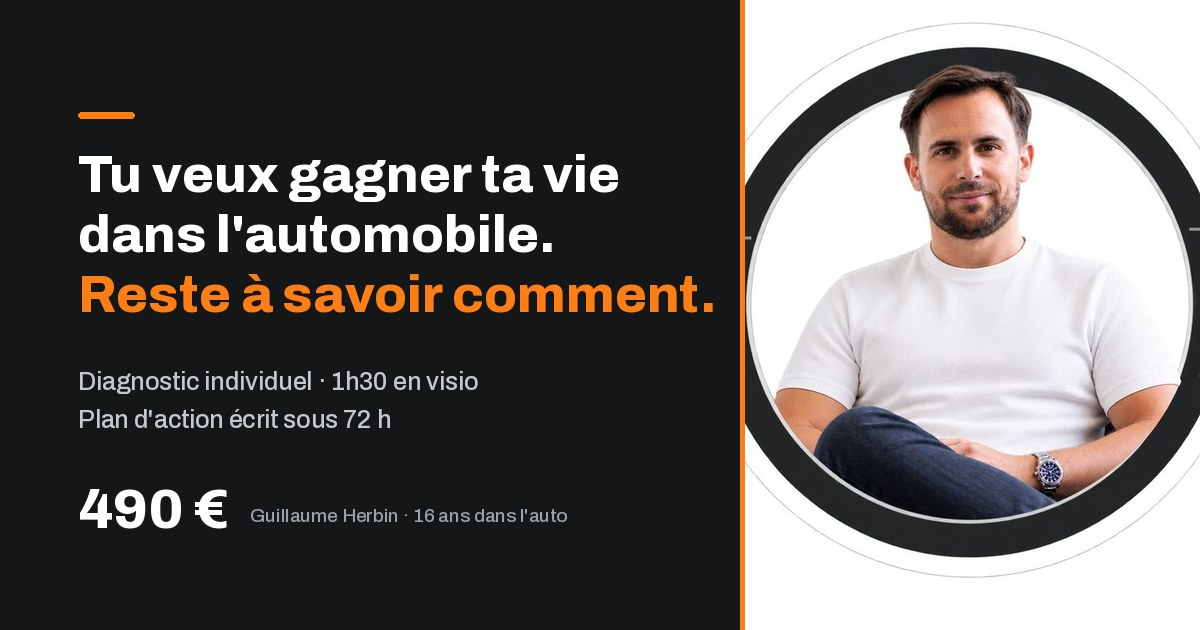
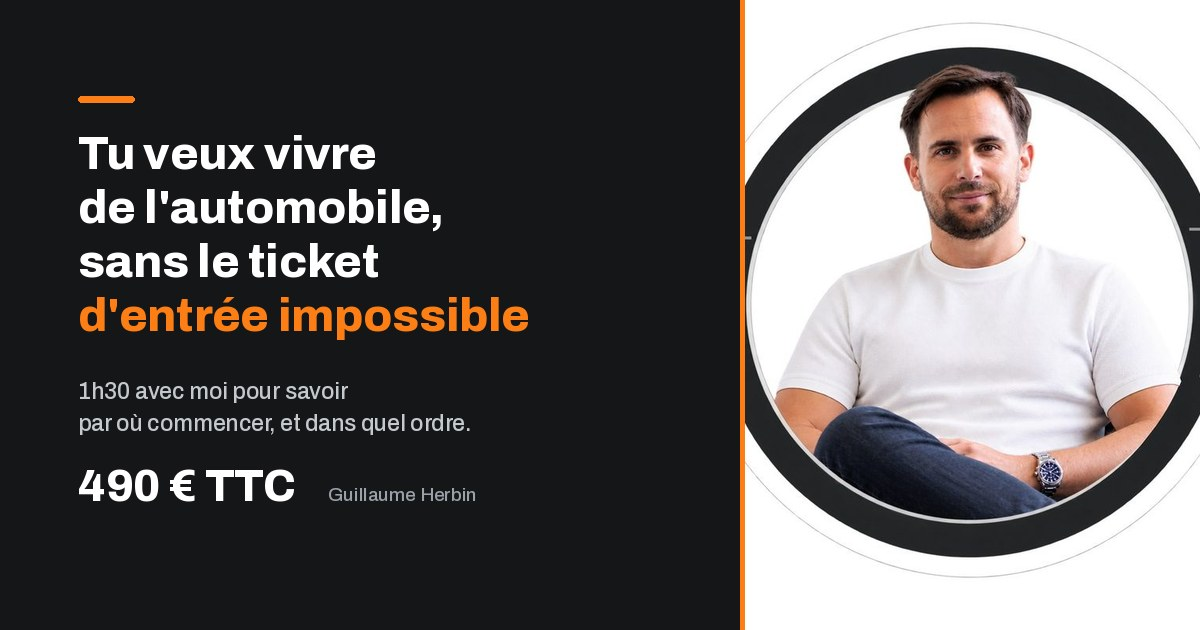
Accroche, aération, années des témoignages et disposition des cartes
Accroche
- nouveau titre : « Tu veux vivre de l'automobile, sans le ticket d'entrée
  impossible », et nouveau sous-titre
- prix ramené à « 490 € TTC », la mention du taux de TVA est retirée de la
  page. Elle reste dans les CGV, où le détail HT et TVA est donné
- la ligne « 16 ans dans l'automobile, un réseau construit depuis 2010 »
  disparaît
- le sous-titre passe de 34 à 46 caractères par ligne : à 34 il tombait sur
  trois lignes très courtes sous un titre large

Aération
Le chapeau et la conclusion de la section « le problème » passent à une
phrase par ligne, avec un interligne porté de 1.6 à 1.75.

Témoignages
Années renseignées sur la page tunnel et sur la page /temoignages :
Aurélien 2020, Pierre 2023, Thomas 2025. Lohan restait déjà daté de 2026.
Plus aucune mention « année à préciser » nulle part.

Disposition des cinq cartes
Les cartes 4 et 5 occupaient les colonnes 3-4 et 5-6 d'une grille de six :
elles se retrouvaient collées à droite, et pas plus larges que celles du
haut. Elles prennent désormais trois colonnes chacune et couvrent toute la
largeur, comme le demandait la consigne d'origine.

Pied de page
La ligne de copyright est retirée des pages du tunnel. Le pied de page du
site vitrine n'est pas touché. Le droit d'auteur s'applique sans mention,
et les mentions légales restent liées.

Image de partage
Régénérée avec la nouvelle accroche. Elle portait encore l'ancien titre, or
c'est elle que voient les destinataires en story et en message privé, là où
[…]

Changed region(s): [[0.0617, 0.1508, 0.6167, 0.5429], [0.0617, 0.573, 0.4008, 0.6937], [0.0617, 0.7238, 0.4625, 0.8444]]

diff --git a/site/accompagnement/index.html b/site/accompagnement/index.html
@@ -46,14 +46,12 @@
 <!-- ============ Bloc 1 : accroche ============ -->
 <section class="bloc accroche" data-accroche>
   <div class="lire">
-    <h1>Tu veux gagner ta vie dans l'automobile. Reste à savoir comment.</h1>
-    <p class="accroche-sous">1h30 avec moi, une trame précise, et un plan d'action écrit que tu gardes.</p>
-    <p class="accroche-prix">490&nbsp;€ <small>TTC, dont TVA 20&nbsp;%</small></p>
+    <h1>Tu veux vivre de l'automobile, sans le ticket d'entrée impossible</h1>
+    <p class="accroche-sous">1h30 avec moi pour savoir exactement par où commencer,
+       avec quels moyens, et dans quel ordre.</p>
+    <p class="accroche-prix">490&nbsp;€ <small>TTC</small></p>
 
     <a class="cta" href="candidature/" data-cta="accroche">Réserver mon diagnostic<span class="cta-prix">490&nbsp;€</span></a>
-
-    <p class="accroche-preuve">16 ans dans l'automobile. Un réseau construit depuis 2010,
-       avec 3&nbsp;000&nbsp;€ de départ.</p>
 
     <div class="media"><picture><source srcset="../assets/img/portrait-hero.webp" type="image/webp"><img src="../assets/img/portrait-hero.jpg" width="800" height="800" alt="Guillaume Herbin" fetchpriority="high"></picture></div>
 
@@ -65,8 +63,10 @@
 <section class="bloc">
   <div class="large">
     <h2 class="titre-centre" data-reveal>Tu as la passion, mais pas le mode d'emploi</h2>
-    <p class="chapo-centre" data-reveal>Tu connais les voitures. Tu sais repérer une bonne
-       affaire. Tu voudrais en faire ton métier. Mais dès que tu te renseignes, c'est le mur.</p>
+    <p class="chapo-centre" data-reveal>Tu connais les voitures.<br>
+       Tu sais repérer une bonne affaire.<br>
+       Tu voudrais en faire ton métier.<br>
+       Mais dès que tu te renseignes, c'est le mur.</p>
 
     <div class="cartes cartes-3">
       <article class="carte-i" data-reveal>
@@ -87,8 +87,8 @@
     </div>
 
     <div class="conclusion" data-reveal>
-      <p>Personne ne répond à ces questions-là. On te vend des méthodes, des chiffres d'achat
-         et de revente, et des promesses.</p>
+      <p>Personne ne répond à ces questions-là.<br>
+         On te vend des méthodes, des chiffres d'achat et de revente, et des promesses.</p>
       <p class="pointe">Moi je réponds à ta situation.</p>
     </div>
   </div>
@@ -120,11 +120,11 @@
     <div class="temoins">
       <figure class="temoin" data-reveal>
         <blockquote>&laquo;&nbsp;Il m'a aidé à poser les bonnes bases, à éviter certaines erreurs et surtout à construire une activité qui me ressemble. Aujourd'hui, plusieurs années après, je vends une dizaine de voitures par mois, je vis pleinement de mon activité et je suis toujours seul.&nbsp;&raquo;</blockquote>
-        <figcaption><b>Aurélien</b>, 33 ans &middot; marchand automobile indépendant &middot; <span class="a-fournir" style="padding:1px 7px;font-size:.88em;white-space:nowrap">année à préciser</span></figcaption>
+        <figcaption><b>Aurélien</b>, 33 ans &middot; marchand automobile indépendant &middot; accompagné en 2020</figcaption>
       </figure>
       <figure class="temoin" data-reveal>
         <blockquote>&laquo;&nbsp;Il ne m'a jamais vendu le rêve de l'entrepreneuriat. Au contraire. On a parlé risques, trésorerie, erreurs possibles, organisation… et ça m'a justement permis de prendre ma décision en sachant où je mettais les pieds.&nbsp;&raquo;</blockquote>
-        <figcaption><b>Pierre</b>, 39 ans &middot; dirigeant de garage &middot; <span class="a-fournir" style="padding:1px 7px;font-size:.88em;white-space:nowrap">année à préciser</span></figcaption>
+        <figcaption><b>Pierre</b>, 39 ans &middot; dirigeant de garage &middot; accompagné en 2023</figcaption>
       </figure>
       <figure class="temoin" data-reveal>
         <blockquote>&laquo;&nbsp;Je suis parti de zéro, tout seul et sans stock. Je pense que je me serais lancé même sans lui, mais une chose est sûre : je ne serais pas allé aussi vite et j'aurais fait un paquet d'erreurs en chemin.&nbsp;&raquo;</blockquote>
@@ -132,7 +132,7 @@
       </figure>
       <figure class="temoin" data-reveal>
         <blockquote>&laquo;&nbsp;Il ne m'a pas appris mon métier. Il m'a appris à regarder mon activité autrement. Aujourd'hui, le plus gros changement n'est même pas que je vende davantage. C'est que je sais ce que je gagne.&nbsp;&raquo;</blockquote>
-        <figcaption><b>Thomas</b>, 31 ans &middot; marchand automobile en activité &middot; <span class="a-fournir" style="padding:1px 7px;font-size:.88em;white-space:nowrap">année à préciser</span></figcaption>
+        <figcaption><b>Thomas</b>, 31 ans &middot; marchand automobile en activité &middot; accompagné en 2025</figcaption>
       </figure>
     </div>
     <p class="temoins-note" data-reveal>
@@ -353,7 +353,6 @@
       <a href="../confidentialite/">Confidentialité</a>
       <a href="https://www.instagram.com/guillaumeherbin_/" target="_blank" rel="noopener">Instagram</a>
     </p>
-    <p>&copy; <span data-annee>2026</span> RB1 Participations, Guillaume Herbin</p>
   </div>
 </footer>
 <aside class="cta-collant" data-collant data-visible="false" aria-label="Réserver le diagnostic">

diff --git a/site/assets/css/tunnel.css b/site/assets/css/tunnel.css
@@ -176,7 +176,7 @@ body[data-barre-basse="actif"]{padding-bottom:78px}
 /* ---------- Accroche ---------- */
 .accroche{padding-block:clamp(30px,6vw,52px) clamp(34px,6vw,56px)}
 .accroche h1{margin-bottom:18px}
-.accroche-sous{font-size:1.08rem;color:var(--ink-2);max-width:34ch}
+.accroche-sous{font-size:1.08rem;color:var(--ink-2);max-width:46ch;line-height:1.65}
 .accroche-prix{
   display:inline-flex;align-items:baseline;gap:8px;margin-top:18px;
   font-size:1.9rem;font-weight:800;letter-spacing:-.03em;
@@ -499,11 +499,14 @@ html:not(.js-anim) [data-reveal]{opacity:1;transform:none}
 .cartes{display:grid;gap:clamp(14px,2vw,20px);align-items:stretch}
 .cartes-3{grid-template-columns:repeat(3,1fr)}
 .cartes-2{grid-template-columns:repeat(2,1fr)}
-/* Cinq cartes : trois en haut, deux plus larges centrées en dessous. */
+/* Cinq cartes : trois en haut, deux plus larges en dessous.
+   Les deux cartes du bas prennent trois colonnes chacune et couvrent donc
+   toute la largeur. Leur donner deux colonnes les collait à droite au lieu
+   de les centrer, et elles n'étaient pas plus larges que celles du haut. */
 .cartes-5{grid-template-columns:repeat(6,1fr)}
 .cartes-5 > *{grid-column:span 2}
-.cartes-5 > *:nth-child(4){grid-column:3 / span 2}
-.cartes-5 > *:nth-child(5){grid-column:5 / span 2}
+.cartes-5 > *:nth-child(4){grid-column:1 / span 3}
+.cartes-5 > *:nth-child(5){grid-column:4 / span 3}
 @media (max-width:900px){
   .cartes-3,.cartes-5{grid-template-columns:1fr 1fr}
   .cartes-5 > *,.cartes-5 > *:nth-child(4),.cartes-5 > *:nth-child(5){grid-column:auto}
@@ -557,7 +560,7 @@ html:not(.js-anim) [data-reveal]{opacity:1;transform:none}
 /* Chapeau centré au-dessus d'une grille de cartes. */
 .chapo-centre{
   max-width:56ch;margin:0 auto clamp(26px,4vw,36px);
-  text-align:center;font-size:1.06rem;color:var(--ink-2);line-height:1.6;
+  text-align:center;font-size:1.06rem;color:var(--ink-2);line-height:1.75;
 }
 .titre-centre{text-align:center}
 
@@ -565,7 +568,7 @@ html:not(.js-anim) [data-reveal]{opacity:1;transform:none}
 .conclusion{
   max-width:60ch;margin:clamp(28px,4vw,40px) auto 0;text-align:center;
 }
-.conclusion p{color:var(--ink-2)}
+.conclusion p{color:var(--ink-2);line-height:1.75}
 .conclusion .pointe{
   margin-top:.8em;font-size:clamp(1.12rem,2.6vw,1.32rem);
   font-weight:800;letter-spacing:-.018em;color:var(--ink);

diff --git a/site/temoignages/index.html b/site/temoignages/index.html
@@ -57,7 +57,7 @@
   <div class="lire">
     <header class="temoignage-tete">
       <h2>Aurélien, 33 ans</h2>
-      <p class="temoignage-meta">marchand automobile indépendant &middot; <span class="a-fournir" style="padding:1px 7px;font-size:.9em;white-space:nowrap">année à préciser</span></p>
+      <p class="temoignage-meta">marchand automobile indépendant &middot; accompagné en 2020</p>
     </header>
     <div class="temoignage-corps">
       <p>J'ai rencontré Guillaume à un moment où j'avais surtout besoin d'y voir plus clair dans mon activité.</p>
@@ -73,7 +73,7 @@
   <div class="lire">
     <header class="temoignage-tete">
       <h2>Pierre, 39 ans</h2>
-      <p class="temoignage-meta">dirigeant de garage &middot; <span class="a-fournir" style="padding:1px 7px;font-size:.9em;white-space:nowrap">année à préciser</span></p>
+      <p class="temoignage-meta">dirigeant de garage &middot; accompagné en 2023</p>
     </header>
     <div class="temoignage-corps">
       <p>À la fin de mon alternance comme vendeur automobile, j'avais deux possibilités : continuer dans le réseau de concessions dans lequel j'étais, avec quelque chose de plutôt confortable devant moi, ou tenter de construire mon propre projet.</p>
@@ -115,7 +115,7 @@
   <div class="lire">
     <header class="temoignage-tete">
       <h2>Thomas, 31 ans</h2>
-      <p class="temoignage-meta">marchand automobile en activité &middot; <span class="a-fournir" style="padding:1px 7px;font-size:.9em;white-space:nowrap">année à préciser</span></p>
+      <p class="temoignage-meta">marchand automobile en activité &middot; accompagné en 2025</p>
     </header>
     <div class="temoignage-corps">
       <p>J'ai rencontré Guillaume un peu par hasard lors d'un événement automobile.</p>
@@ -149,7 +149,6 @@
       <a href="../confidentialite/">Confidentialité</a>
       <a href="https://www.instagram.com/guillaumeherbin_/" target="_blank" rel="noopener">Instagram</a>
     </p>
-    <p>&copy; <span data-annee>2026</span> RB1 Participations, Guillaume Herbin</p>
   </div>
 </footer>
 

diff --git a/site/accompagnement/candidature/index.html b/site/accompagnement/candidature/index.html
@@ -177,7 +177,6 @@
       <a href="../../confidentialite/">Confidentialité</a>
       <a href="https://www.instagram.com/guillaumeherbin_/" target="_blank" rel="noopener">Instagram</a>
     </p>
-    <p>&copy; <span data-annee>2026</span> RB1 Participations, Guillaume Herbin</p>
   </div>
 </footer>
 

diff --git a/site/accompagnement/merci/index.html b/site/accompagnement/merci/index.html
@@ -111,7 +111,6 @@
       <a href="../../confidentialite/">Confidentialité</a>
       <a href="https://www.instagram.com/guillaumeherbin_/" target="_blank" rel="noopener">Instagram</a>
     </p>
-    <p>&copy; <span data-annee>2026</span> RB1 Participations, Guillaume Herbin</p>
   </div>
 </footer>
 

diff --git a/site/accompagnement/confirmation/index.html b/site/accompagnement/confirmation/index.html
@@ -80,7 +80,6 @@
       <a href="../../confidentialite/">Confidentialité</a>
       <a href="https://www.instagram.com/guillaumeherbin_/" target="_blank" rel="noopener">Instagram</a>
     </p>
-    <p>&copy; <span data-annee>2026</span> RB1 Participations, Guillaume Herbin</p>
   </div>
 </footer>
 

diff --git a/site/accompagnement/reservation/index.html b/site/accompagnement/reservation/index.html
@@ -95,7 +95,6 @@
       <a href="../../confidentialite/">Confidentialité</a>
       <a href="https://www.instagram.com/guillaumeherbin_/" target="_blank" rel="noopener">Instagram</a>
     </p>
-    <p>&copy; <span data-annee>2026</span> RB1 Participations, Guillaume Herbin</p>
   </div>
 </footer>
 

diff --git a/site/calcul-marge/merci/index.html b/site/calcul-marge/merci/index.html
@@ -82,7 +82,6 @@
       <a href="../../confidentialite/">Confidentialité</a>
       <a href="https://www.instagram.com/guillaumeherbin_/" target="_blank" rel="noopener">Instagram</a>
     </p>
-    <p>&copy; <span data-annee>2026</span> RB1 Participations, Guillaume Herbin</p>
   </div>
 </footer>
 

diff --git a/site/calcul-marge/index.html b/site/calcul-marge/index.html
@@ -103,7 +103,6 @@
       <a href="../confidentialite/">Confidentialité</a>
       <a href="https://www.instagram.com/guillaumeherbin_/" target="_blank" rel="noopener">Instagram</a>
     </p>
-    <p>&copy; <span data-annee>2026</span> RB1 Participations, Guillaume Herbin</p>
   </div>
 </footer>
 

diff --git a/site/cgv/index.html b/site/cgv/index.html
@@ -180,7 +180,6 @@
       <a href="../confidentialite/">Confidentialité</a>
       <a href="https://www.instagram.com/guillaumeherbin_/" target="_blank" rel="noopener">Instagram</a>
     </p>
-    <p>&copy; <span data-annee>2026</span> RB1 Participations, Guillaume Herbin</p>
   </div>
 </footer>
 

diff --git a/site/confidentialite/index.html b/site/confidentialite/index.html
@@ -162,7 +162,6 @@
       <a href="./">Confidentialité</a>
       <a href="https://www.instagram.com/guillaumeherbin_/" target="_blank" rel="noopener">Instagram</a>
     </p>
-    <p>&copy; <span data-annee>2026</span> RB1 Participations, Guillaume Herbin</p>
   </div>
 </footer>
 
